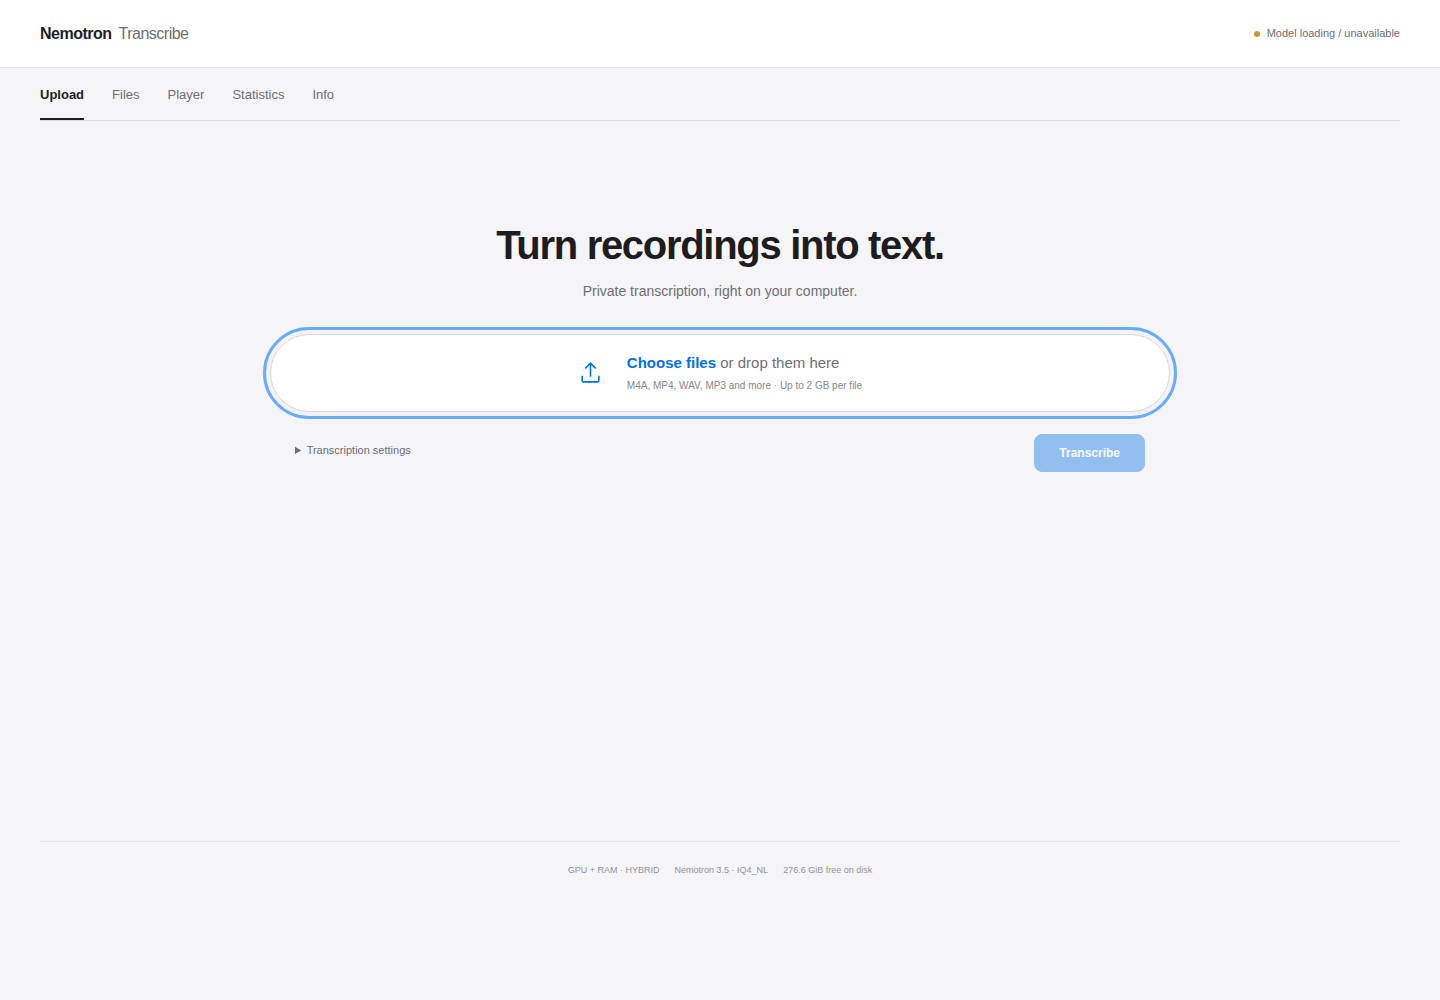
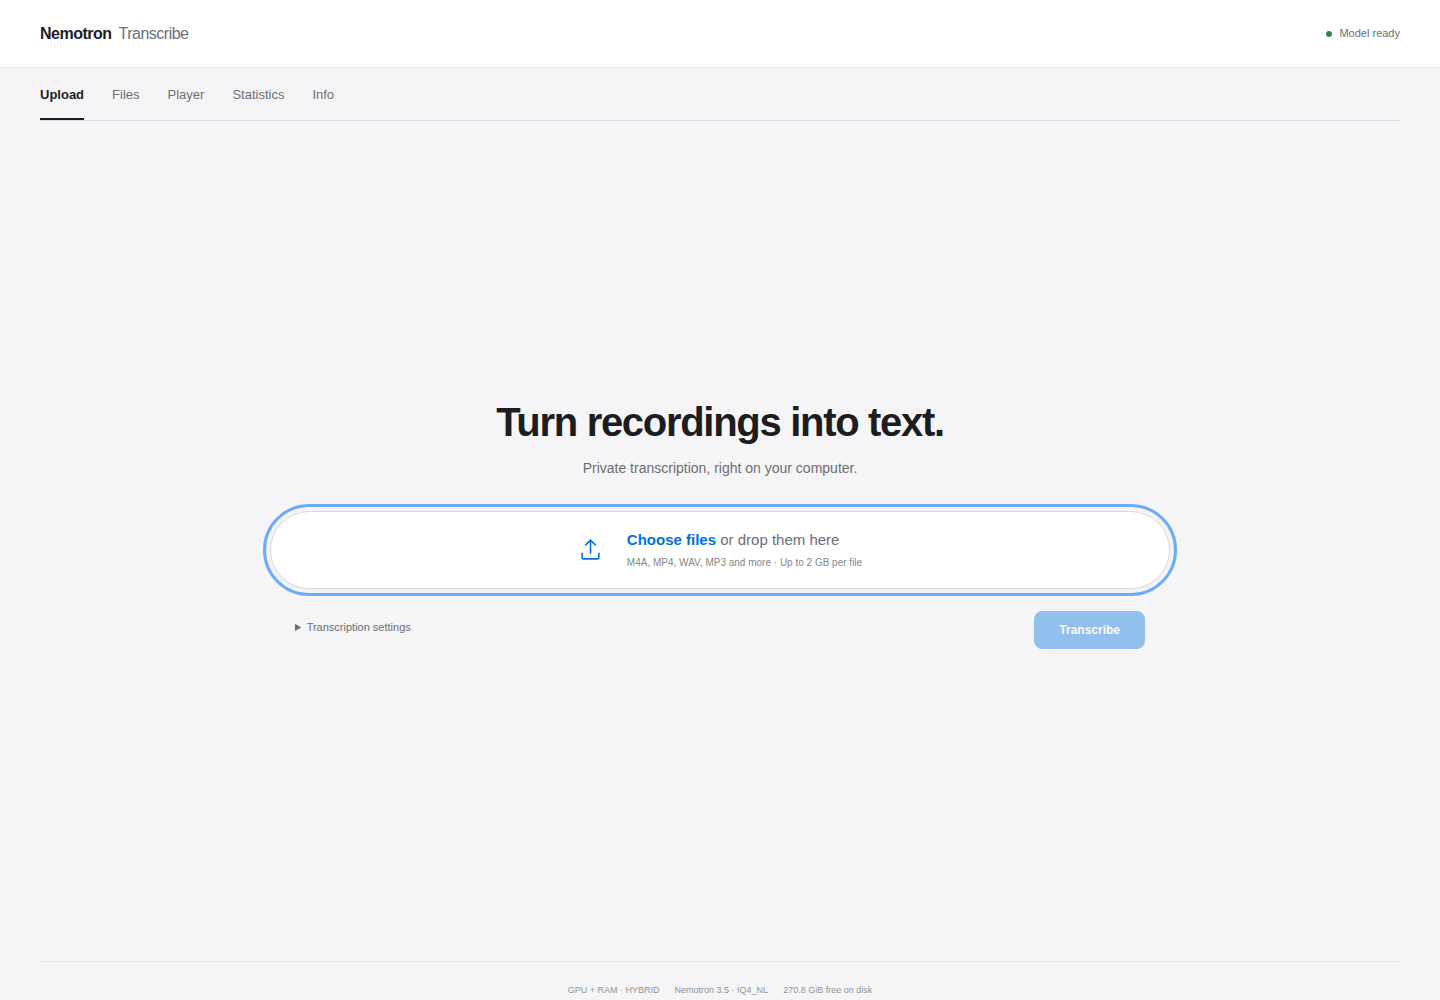
docs: refresh upload screenshot and add complete studio page gallery

diff --git a/scripts/check_upload_memory.py b/scripts/check_upload_memory.py
@@ -1,0 +1,54 @@
+#!/usr/bin/env python3
+"""Measure a real 1 GiB multipart upload while another job owns the worker."""
+import json
+import struct
+import subprocess
+import threading
+import time
+from pathlib import Path
+
+import httpx
+import psutil
+
+ROOT=Path(__file__).resolve().parents[1]
+
+
+def main():
+    with httpx.Client(base_url='http://127.0.0.1:7860',timeout=300) as client:
+        jobs=client.get('/api/jobs').raise_for_status().json()['jobs']
+        if not any(j['status']=='processing' for j in jobs):
+            raise SystemExit('Run this check while another job owns the worker; the test upload is deleted before inference')
+        container=subprocess.check_output(['docker','compose','ps','-q','web'],text=True,cwd=ROOT).strip()
+        pid=int(subprocess.check_output(['docker','inspect','--format','{{.State.Pid}}',container],text=True))
+        parent=psutil.Process(pid)
+        def rss():
+            return sum(p.memory_info().rss for p in [parent,*parent.children(recursive=True)])
+        baseline=rss(); samples=[]; stop=threading.Event()
+        def monitor():
+            while not stop.wait(.05):
+                samples.append(rss())
+        thread=threading.Thread(target=monitor,daemon=True)
+        path=ROOT/'evidence/samples/streaming-1GiB.wav'
+        size=1024**3
+        with path.open('wb') as file:
+            file.write(struct.pack('<4sI4s4sIHHIIHH4sI',b'RIFF',size+36,b'WAVE',b'fmt ',16,1,2,48000,48000*8,8,32,b'data',size))
+            file.truncate(size+44)
+        thread.start(); started=time.perf_counter()
+        try:
+            with path.open('rb') as file:
+                created=client.post('/api/jobs',files={'file':('streaming-1GiB.wav',file,'audio/wav')}).raise_for_status().json()
+            status=client.get('/api/jobs/'+created['id']).raise_for_status().json()
+            client.delete('/api/jobs/'+created['id']).raise_for_status()
+            assert status['status']=='queued','Test recording was claimed unexpectedly'
+        finally:
+            stop.set();thread.join();path.unlink(missing_ok=True)
+        result={'bytes':size+44,'wall_s':time.perf_counter()-started,'web_rss_baseline_mib':baseline/1024**2,
+                'web_rss_peak_mib':max(samples+[baseline])/1024**2,
+                'web_rss_growth_mib':(max(samples+[baseline])-baseline)/1024**2,
+                'result':'uploaded, audio-probed and queued; deleted before inference'}
+        (ROOT/'evidence/upload-memory.json').write_text(json.dumps(result,indent=2))
+        print(json.dumps(result,indent=2))
+
+
+if __name__=='__main__':
+    main()

diff --git a/scripts/browser_check.py b/scripts/browser_check.py
@@ -21,7 +21,7 @@ def main():
         page.on('pageerror',lambda error:issues.append(str(error)))
         page.goto(args.base_url)
         page.wait_for_function("() => document.querySelector('#engineLabel').textContent !== 'Connecting…'")
-        assert page.get_by_role('tab').all_text_contents()==['Upload','Files','Player','Statistics','Info']
+        assert [text.strip() for text in page.get_by_role('tab').all_text_contents()]==['Upload','Files','Player','Statistics','Info']
         assert page.locator('#files').get_attribute('accept').startswith('.m4a,.mp4')
         assert page.locator('#submit').is_disabled()
         page.locator('#drop').focus()

diff --git a/README.md b/README.md
@@ -34,6 +34,45 @@ Five tabs. One local workspace.
 
 **No invented timestamps.** If alignment is missing, invalid or partial, text remains available; synchronized highlighting and SRT are withheld for unaligned text.
 
+## Screenshots
+
+Captured from the running local application. Resource readings and job status reflect the moment each screenshot was taken.
+
+<details>
+<summary><strong>Upload — centered file chooser</strong></summary>
+
+![Upload page](assets/upload.png)
+
+</details>
+
+<details>
+<summary><strong>Files — queue, progress, retry and exports</strong></summary>
+
+![Files page](assets/files.png)
+
+</details>
+
+<details>
+<summary><strong>Player — recording and synchronized transcript</strong></summary>
+
+![Player page](assets/player.png)
+
+</details>
+
+<details>
+<summary><strong>Statistics — per-file and aggregate performance</strong></summary>
+
+![Statistics page](assets/statistics.png)
+
+</details>
+
+<details>
+<summary><strong>Info — live deployment and hardware consumption</strong></summary>
+
+![Info page](assets/info.png)
+
+</details>
+
 ## Quick start
 
 Requirements: Linux, Docker Engine with the Compose plugin, **64 GB RAM**, and enough disk for the **21.35 GB model pair**, build layers and your recordings. Allow **at least 60 GB free** for a new setup; CUDA builds may need more.
